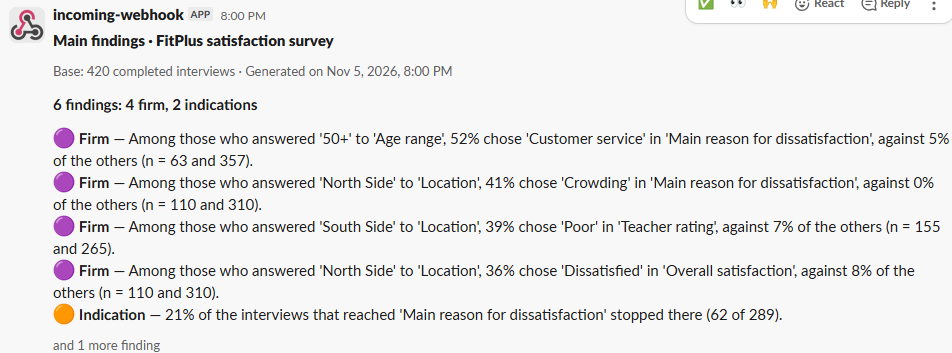
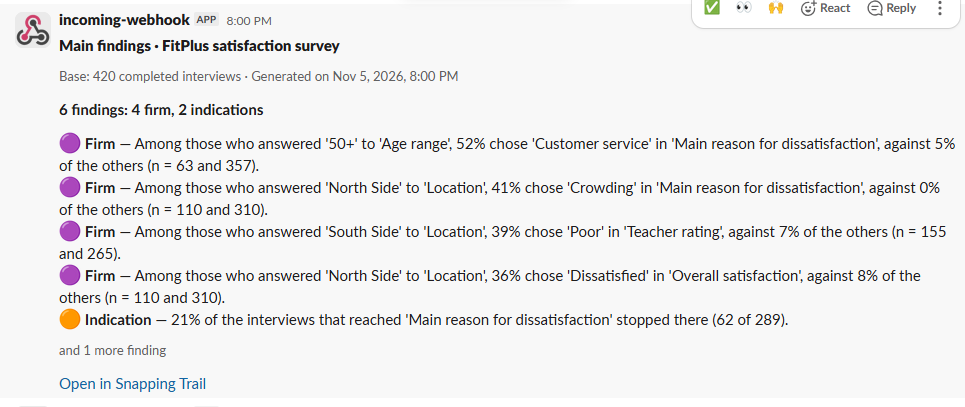
Name the research objective and the dissatisfaction question in the overview video

Changed region(s): [[0.0305, 0.2493, 1.0, 0.9972], [0.0, 0.0312, 0.4874, 0.2181], [0.7006, 0.0, 1.0, 0.0312]]

diff --git a/tools/videos/pipeline.js b/tools/videos/pipeline.js
@@ -14,7 +14,7 @@ import {LANGS, loadScript, partsOf, pick} from './lib/script.js';
 import {narration} from './lib/voice.js';
 import {renderCard} from './lib/cards.js';
 import {recordApp} from './lib/record.js';
-import {LEAD, TAIL, appVideo, concat, imagesVideo, segment, srt, stillVideo} from './lib/assemble.js';
+import {LEAD, TAIL, appVideo, concat, coverArea, imagesVideo, segment, srt, stillVideo} from './lib/assemble.js';
 
 const DIR = path.dirname(fileURLToPath(import.meta.url));
 const REPO = path.resolve(DIR, '../..');
@@ -33,8 +33,13 @@ async function scenePart(browser, part, i, seconds, lang, work, scene) {
     return {file: stillVideo(png, seconds, out), seconds};
   }
   if (part.images) {
-    const images = part.images.map((p) => p.replace('{docs}', DOCS[lang]).replace('{assets}', path.join(DIR, 'assets')).replace('{lang}', lang));
-    for (const img of images) if (!fs.existsSync(img)) throw new Error(`${scene.id}: no image ${img}`);
+    const fill = (p) => p.replace('{docs}', DOCS[lang]).replace('{assets}', path.join(DIR, 'assets')).replace('{lang}', lang);
+    const images = part.images.map((entry, j) => {
+      const img = fill(typeof entry === 'string' ? entry : entry.file);
+      if (!fs.existsSync(img)) throw new Error(`${scene.id}: no image ${img}`);
+      // A copy with an area covered (the original stays as it is).
+      return entry.cover ? coverArea(img, entry.cover, path.join(work, 'covered', `${scene.id}-${i}-${j}.png`)) : img;
+    });
     return {file: imagesVideo(images, seconds, out), seconds};
   }
   const frames = path.join(work, 'frames', `${scene.id}-${i}`);

diff --git a/tools/videos/lib/assemble.js b/tools/videos/lib/assemble.js
@@ -33,6 +33,14 @@ export function stillVideo(image, d, out) {
   return out;
 }
 
+/** A copy of [image] with a box filled with [color]; a negative x or y counts from the right or bottom. */
+export function coverArea(image, {x, y, w, h, color}, out) {
+  fs.mkdirSync(path.dirname(out), {recursive: true});
+  const at = (v, side) => (v < 0 ? `${side}${v}` : String(v));
+  ffmpeg(['-i', image, '-vf', `drawbox=x=${at(x, 'iw')}:y=${at(y, 'ih')}:w=${w}:h=${h}:color=${color}:t=fill`, '-frames:v', '1', out]);
+  return out;
+}
+
 /** The video of one image or several, one after the other with a 0.6 s cross-fade, over [d] seconds. */
 export function imagesVideo(images, d, out) {
   const x = 0.6;

diff --git a/tools/videos/README.md b/tools/videos/README.md
@@ -47,6 +47,8 @@ A screen is one of:
 - `images`: images one after the other with a cross-fade (the Collect app's captures, the Slack
   message); `{docs}` is the language's docs folder, `{assets}` this folder's `assets` and `{lang}`
   the language.
+  An image can also be `{file, cover: {x, y, w, h, color}}`: the video uses a copy with that box
+  filled (a negative `x` or `y` counts from the right or bottom), and the original stays as it is.
 - `card`: `opening` (logo and title) or `closing` (logo, the manual's address and its line).
 
 A scene can also have `parts`, each a screen with its `share` of the scene's time (scene 10: the
